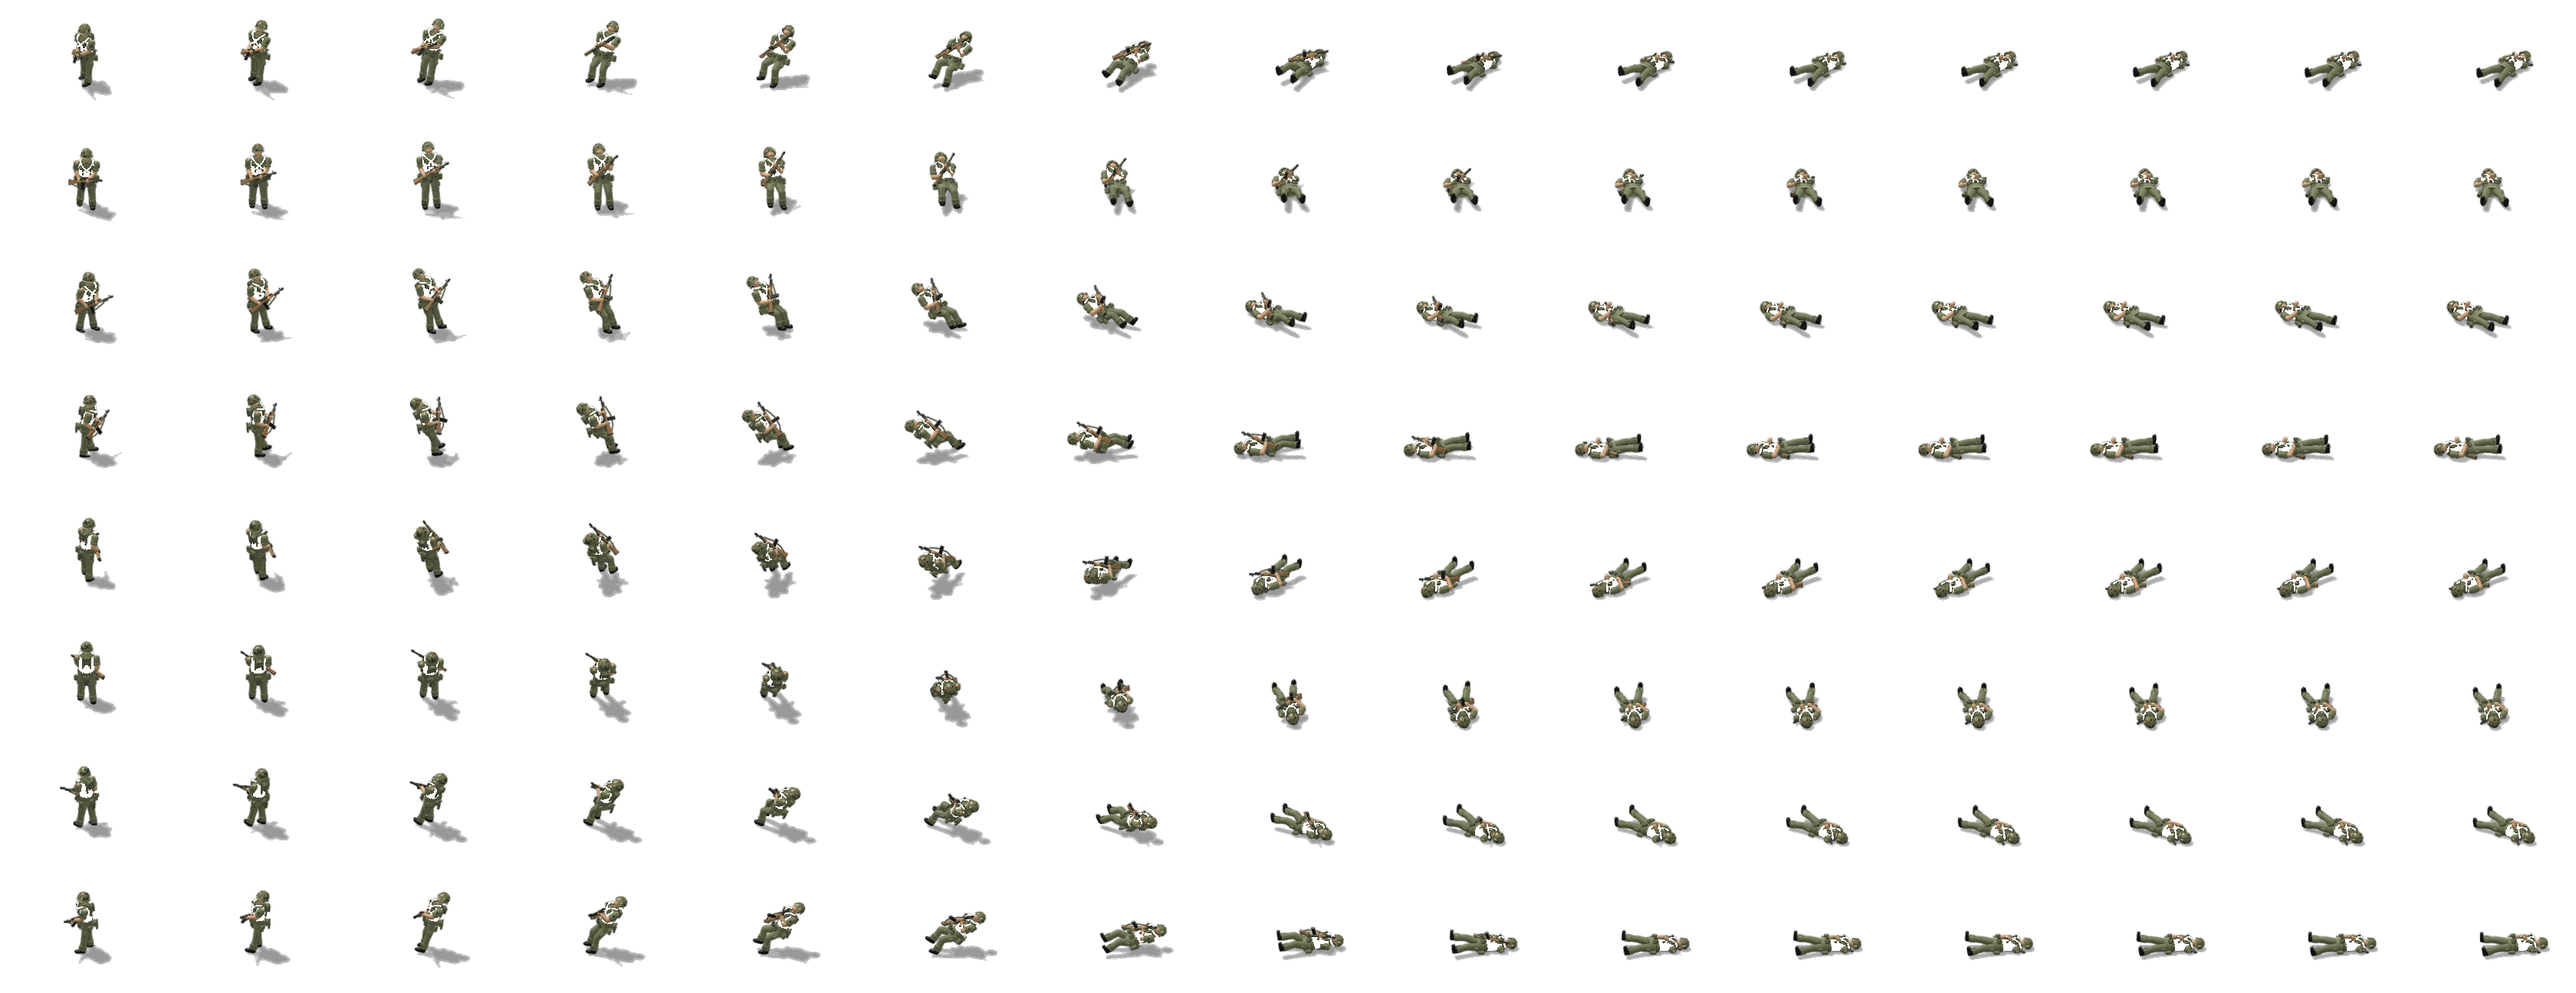
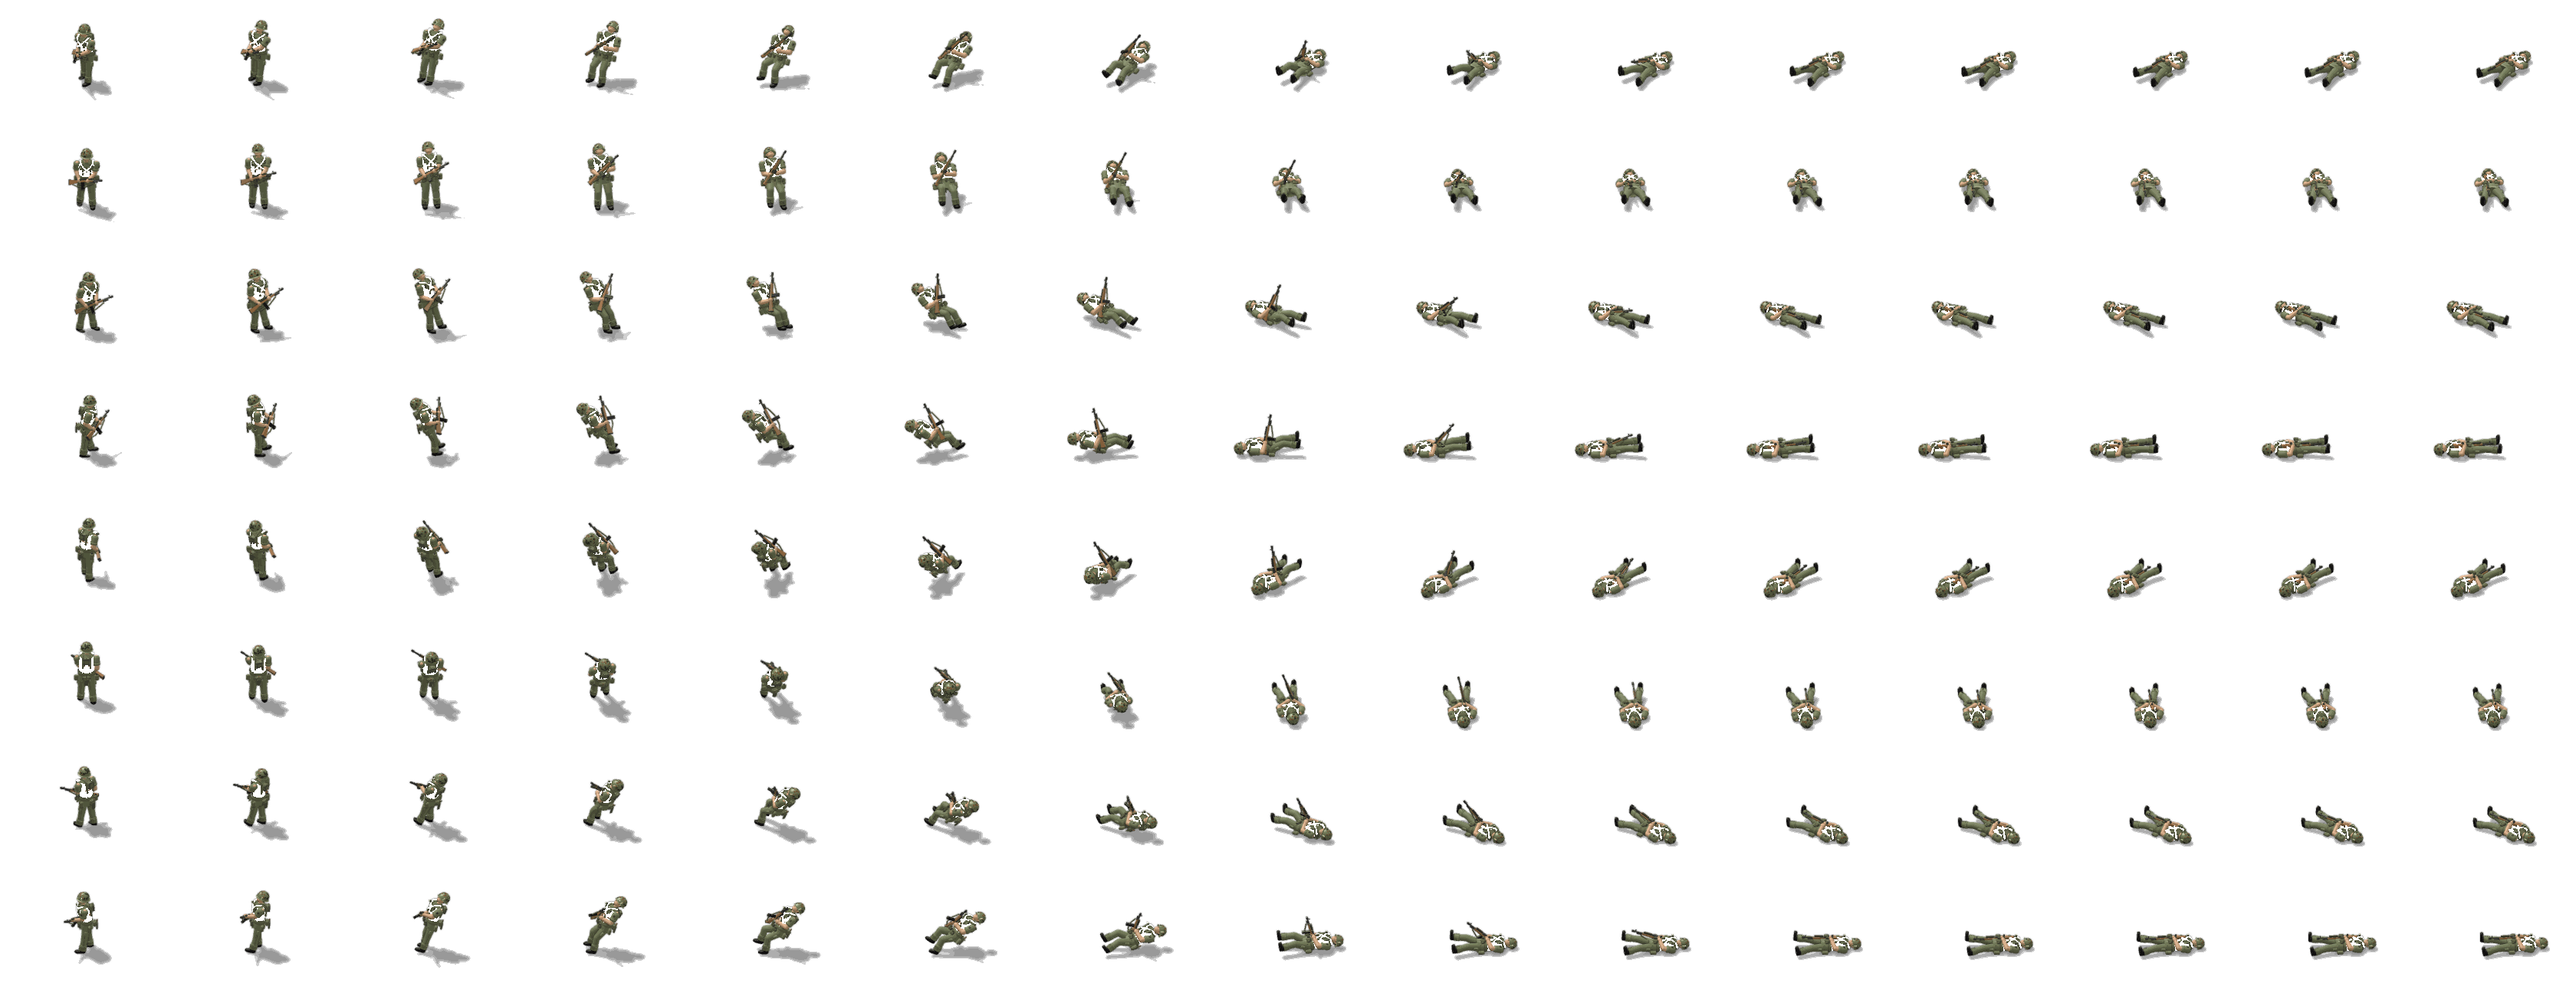
Skirmisher death: the M14 turns smoothly onto the chest (no jump to the ground), the left hand falls to the belly; only the Skirmisher rebuilt

diff --git a/ArtGen/units/models/line_foot.py b/ArtGen/units/models/line_foot.py
@@ -541,7 +541,7 @@ class LineBody(LF.LeagueBody):
 
 # ------------------------------------------------------------ death
 
-def line_death(base, ctx, hold=None, delay=0.0, late_hands=False, head0=22.0):
+def line_death(base, ctx, hold=None, delay=0.0, late_hands=False, head0=22.0, free_left=False):
     """humanoid.anim_death's fall (struck, staggers back, knees buckle, falls
     on the back), started from the figure's own default pose: the legs from
     its stance, the arms by IK following the chest, so frame 0 is the default
@@ -566,6 +566,10 @@ def line_death(base, ctx, hold=None, delay=0.0, late_hands=False, head0=22.0):
     else:
         hands = {'hand_r': (0.12, 0.20, 1.00), 'hand_l': (-0.08, 0.20, 1.04), 'elbow_r': (0.6, -0.5, -0.4),
                  'elbow_l': (-0.6, -0.5, -0.4)}
+    if hold == 'port' and free_left:
+        # the right hand keeps the rifle, the left falls onto the belly
+        hands = dict(hands, support=0.0, hand_l=(-0.06, 0.20, 1.02), elbow_l=(-0.6, -0.5, -0.4),
+                     hand_r=(0.16, 0.18, 1.00))
     k = [
         (0.0, {}),
         (0.18, dict({} if late_hands else hands, root_rot=(12, 0, 6), root_pos=(0, -0.06, -0.02), chest=(12, 0, 8),
@@ -589,6 +593,24 @@ def line_death(base, ctx, hold=None, delay=0.0, late_hands=False, head0=22.0):
     act = FM.Act(fn, legs='fk', arms='ik')
     act.flatten = True
     return act
+
+
+def _slerp_R(R0, R1, u):
+    """Rotation from R0 toward R1 by the fraction u along the shortest arc."""
+    Rd = R0.T @ R1
+    c = max(-1.0, min(1.0, (float(np.trace(Rd)) - 1) / 2))
+    ang = math.acos(c)
+    if ang < 1e-5:
+        return R1.astype(np.float32)
+    axis = _v((Rd[2, 1] - Rd[1, 2], Rd[0, 2] - Rd[2, 0], Rd[1, 0] - Rd[0, 1]))
+    n = np.linalg.norm(axis)
+    if n < 1e-6:
+        return (R0 if u < 0.5 else R1).astype(np.float32)
+    k = axis / n
+    a = ang * u
+    K = np.array([[0, -k[2], k[1]], [k[2], 0, -k[0]], [-k[1], k[0], 0]], np.float32)
+    Ru = np.eye(3, dtype=np.float32) + math.sin(a) * K + (1 - math.cos(a)) * (K @ K)
+    return (R0 @ Ru).astype(np.float32)
 
 
 def _gun_lie_R(t):
@@ -691,7 +713,8 @@ class LineSoldier(LF.LeagueSoldier):
             if key not in self._cache:
                 self._cache[key] = line_death(self.base, ctx, 'port' if self.gun else None,
                                               late_hands=bool(self.p.get('death_late_hands')),
-                                              head0=float(self.p.get('death_head0', 22.0)))
+                                              head0=float(self.p.get('death_head0', 22.0)),
+                                              free_left=self.p.get('death_rest') == 'chest')
             return self._cache[key]
         return super().action(action, ctx)
 
@@ -705,8 +728,20 @@ class LineSoldier(LF.LeagueSoldier):
             T = self._order_T(info['T']['r'], info['pose']).copy()
             t = float(pose.get('death_t', 0.0))
             u = min(1.0, max(0.0, (t - 0.45) / 0.35))
+            if self.p.get('death_rest') == 'chest':
+                u = min(1.0, max(0.0, (t - 0.22) / 0.55))
             u = u * u * (3 - 2 * u)
-            if u > 0:
+            if u > 0 and self.p.get('death_rest') == 'chest':
+                # laid along the body on the chest, muzzle to the feet, turned over smoothly
+                cz = info['W']['chest'][:3, 2].copy()
+                z = -cz
+                z[2] = 0.0
+                z = z / max(np.linalg.norm(z), 1e-6) if np.linalg.norm(z) > 1e-3 else _v((0, 1, 0))
+                y = _v((0, 0, -1))
+                x = np.cross(y, z)
+                Rf = np.stack([x, y, z], 1).astype(np.float32)
+                T[:3, :3] = _slerp_R(T[:3, :3], Rf, u)
+            elif u > 0:
                 Rm = T[:3, :3]
                 z = Rm[:, 2].copy()
                 z[2] = 0.0

diff --git a/ArtGen/units/catalog/modern_mod_foot.py b/ArtGen/units/catalog/modern_mod_foot.py
@@ -154,7 +154,7 @@ UNITS = {
         'gun': 'm14', 'hold': 'low', 'aim': 'shoulder',
         'poses': {'carry': {'hand_r': (0.22, 0.18, 0.94), 'w_main': (-48, -52, 0), 'support': 1.0,
                             'elbow_l': (-0.5, -0.5, -0.7)}}, 'fire_start': 'carry', 'fire_end': 'carry',
-        'flash': 'burst', 'smoke': 'light', 'shots': {'ATTACK1': [3, 4, 5]}, 'death_late_hands': True,
+        'flash': 'burst', 'smoke': 'light', 'shots': {'ATTACK1': [3, 4, 5]}, 'death_late_hands': True, 'death_rest': 'chest',
         'fortify': 'kneel', 'victory': 'raise',
         'actions': dict(_FIRE),
     },
